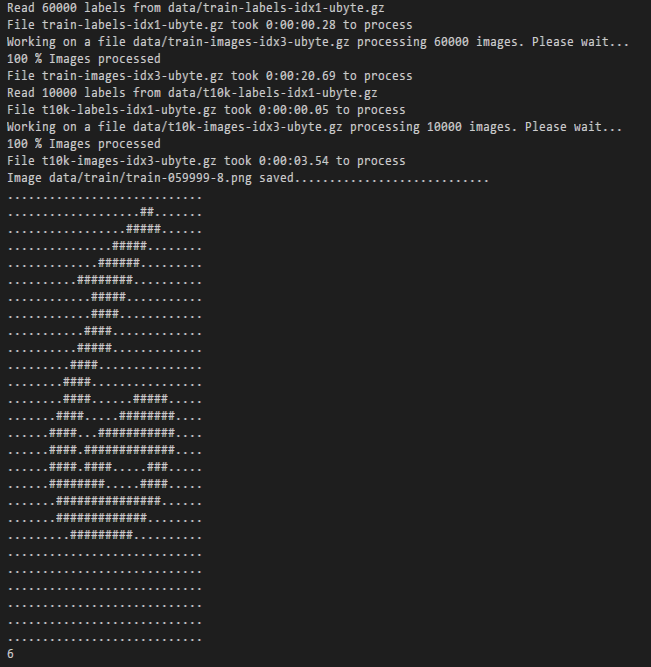
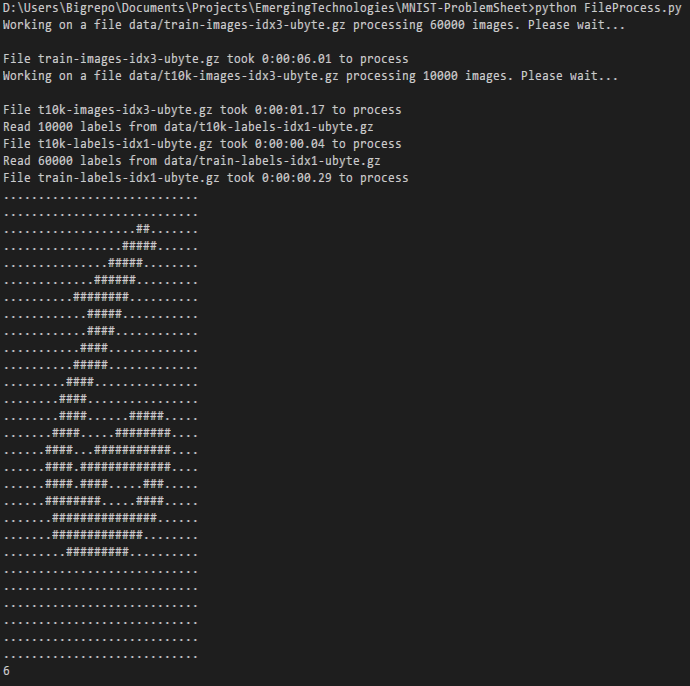
Minor changes

Changed region(s): [[0.0, 0.0, 0.9831, 0.9895]]

diff --git a/FileProcess.py b/FileProcess.py
@@ -37,7 +37,7 @@ def read_file(filename):
             items = int.from_bytes(f.read(4), byteorder="big")
             for label in range(items):
                 cur_labels.append(int.from_bytes(f.read(1), byteorder="big"))
-            print("Read %d labels from %s" % (len(cur_labels), filename))
+            print("\nRead %d labels from %s" % (len(cur_labels), filename))
             return cur_labels
         # image file with data
         else:
@@ -45,21 +45,18 @@ def read_file(filename):
             numOfImg, rows, columns = arrays[0], arrays[1], arrays[2]
             # creates file structure. Sizes of array are dynamically created from file structure
             file_data = np.zeros((numOfImg, rows, columns))
-            print("Working on a file %s processing %d images. Please wait..." % (filename, numOfImg))
-            # reads bytes as a whole picture instead of individual pixels. Much faster!!!
-            for image in range(numOfImg):
-                print("\r%.0f %% Images processed" % (image/numOfImg*100), end='')
-                pic_array = np.fromstring(f.read(rows * columns), np.dtype(('uint8', 1)))    # reads 28 * 28 pixels at once
-                pic_array = pic_array.reshape(rows, columns)        # converts 1D array into 2D array of pixels
-                file_data[image] = pic_array.tolist()
-            print("", end='\n')
+            print("\nWorking on a file %s processing %d images. Please wait..." % (filename, numOfImg))
+            # reads bytes as a whole picture array instead of individual pixels. Much faster!!!
+            pic_array = np.fromstring(f.read(numOfImg * rows * columns), np.dtype(('uint8', 1)))    # reads 28 * 28 pixels at once
+            pic_array = pic_array.reshape(numOfImg, rows, columns)        # converts 1D array into 3D array of pixels
+            file_data = pic_array.tolist()
             return file_data
 
 
 # Prints out image to console
 def show_picture(image):
     for column, col in enumerate(image):
-        for pixel, pix in enumerate(image[column]):
+        for pixel, pix in enumerate(col):
             # print(image[column][pixel])
             # Replaces pixel colors dark for '#' bright for '.'
             if image[column][pixel] > 128:
@@ -103,10 +100,10 @@ for file in dirFiles:
     # File process stopwatch start
     startTime = datetime.datetime.now()
     if "labels" in file:
-        # Directory [file name] -> array of labels
+        # Directory(labels) [file name] -> array of labels
         labels[file[:file.index("-")]] = read_file(src_dir + dirFiles[file])
     elif "images" in file:
-        # Directory [file name] -> 3 D array of pixels
+        # Directory(data) [file name] -> 3 D array of pixels
         data[file[:file.index("-")]] = read_file(src_dir + dirFiles[file])
     # File process stopwatch stop
     stopTime = datetime.datetime.now()
